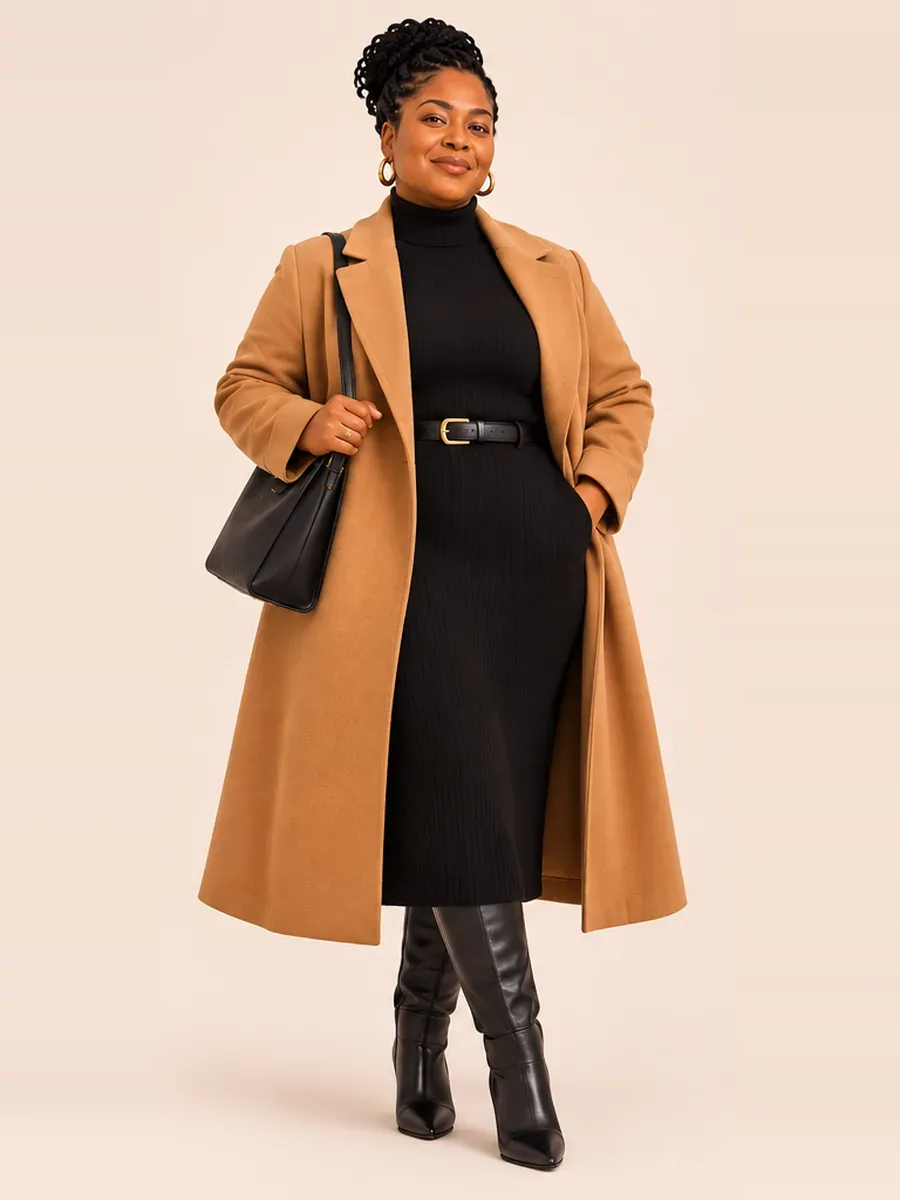
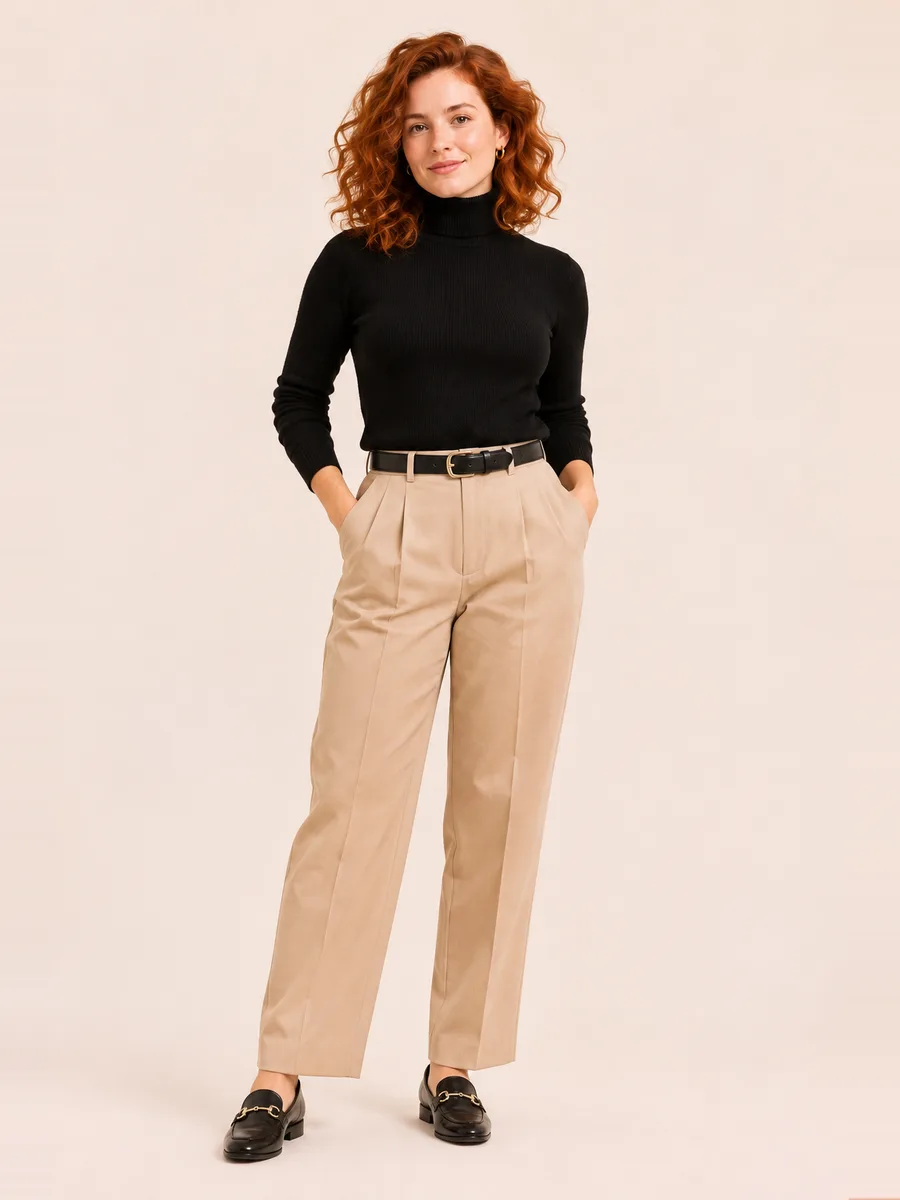
Styles : looks portés Romantique (femme) ; correctif Classique chic 3
Romantique : robe midi fleurie et gilet ivoire, blouse à volants et jupe
satinée rose poudré, pull rose pâle et jupe en dentelle ; la galerie
s'affiche avec ses trois photos. Classique chic 3 remplacé par la photo
du prompt de correctifs. Les cinq correctifs femme sont faits.

Claude-Session: https://claude.ai/code/session_012QL3YtmR4vGBEaKjEs57SS

diff --git a/src/lib/profile.ts b/src/lib/profile.ts
@@ -330,7 +330,7 @@ export const VISUELS_ETAPE_STYLE_FEMME: Record<StyleId, string> = {
 /**
  * LES LOOKS PORTÉS D'UN STYLE (14/11/2026, brief « Refonte UX/UI – Onboarding Choix des styles ») : trois photos éditoriales de tenues
  * portées par style, sous le flat lay de la carte (DecouverteStyles). Fournies au fil de l'eau (14/11/2026 : Minimaliste, Casual chic,
- * Classique chic, Bohème, Streetwear, Preppy et Créatif femme ; 15/11/2026 : Minimaliste, Casual chic, Classique chic, Bohème, Streetwear, Preppy et Créatif homme) ; pour les autres, la règle « aucune donnée inventée » veut
+ * Classique chic, Bohème, Streetwear, Preppy et Créatif femme, Romantique le 15/11/2026 ; 15/11/2026 : Minimaliste, Casual chic, Classique chic, Bohème, Streetwear, Preppy et Créatif homme) ; pour les autres, la règle « aucune donnée inventée » veut
  * qu'une galerie sans photo ne s'affiche pas — pas d'icône, pas de placeholder, pas de flat lay recomposé à leur place. Chaque photo
  * fournie se déclare ici, par genre et par style, à l'emplacement prévu : public/images/styles/looks/<genre>/<slug>-<1|2|3>.webp,
  * portrait 3:4 (900 × 1200, WebP), comme les flat lays. Une liste partielle affiche ce qu'elle a.
@@ -342,12 +342,13 @@ export const LOOKS_PORTES_STYLE: Record<"femme" | "homme", Partial<Record<StyleI
     minimaliste: ["/images/styles/looks/femme/minimaliste-1.webp", "/images/styles/looks/femme/minimaliste-2.webp", "/images/styles/looks/femme/minimaliste-3.webp"],
     casual_chic: ["/images/styles/looks/femme/casual-chic-1.webp", "/images/styles/looks/femme/casual-chic-2.webp", "/images/styles/looks/femme/casual-chic-3.webp"],
     // Fournis au format 3:4 (14/11/2026) : le 1 ramené à 900 × 1200 ; les 2 et 3 avaient des bandes claires ajoutées sur les côtés,
-    // retirées (recadrage sur la photo) puis recomplétées par le bord de la photo. Le 2 remplacé le 15/11/2026 (correctif, fourni en 2:3).
+    // retirées (recadrage sur la photo) puis recomplétées par le bord de la photo. Les 2 et 3 remplacés le 15/11/2026 (correctifs, fournis en 2:3).
     classique_chic: ["/images/styles/looks/femme/classique-chic-1.webp", "/images/styles/looks/femme/classique-chic-2.webp", "/images/styles/looks/femme/classique-chic-3.webp"],
     boheme: ["/images/styles/looks/femme/boheme-1.webp", "/images/styles/looks/femme/boheme-2.webp", "/images/styles/looks/femme/boheme-3.webp"],
     streetwear: ["/images/styles/looks/femme/streetwear-1.webp", "/images/styles/looks/femme/streetwear-2.webp", "/images/styles/looks/femme/streetwear-3.webp"],
     preppy: ["/images/styles/looks/femme/preppy-1.webp", "/images/styles/looks/femme/preppy-2.webp", "/images/styles/looks/femme/preppy-3.webp"],
     creatif: ["/images/styles/looks/femme/creatif-1.webp", "/images/styles/looks/femme/creatif-2.webp", "/images/styles/looks/femme/creatif-3.webp"],
+    romantique: ["/images/styles/looks/femme/romantique-1.webp", "/images/styles/looks/femme/romantique-2.webp", "/images/styles/looks/femme/romantique-3.webp"],
   },
   homme: {
     // Fournis le 15/11/2026, rangés dans l'ordre du prompt (docs/prompts-visuels-styles.md) : 1 pull noir et pantalon anthracite,

diff --git a/src/components/DecouverteStyles.tsx b/src/components/DecouverteStyles.tsx
@@ -16,7 +16,7 @@ import { MAX_STYLES, exposedStyleIds, looksPortesStyle, retirerStyle, styleConfi
  *
  * Données inchangées : les ids de StyleId, persistés sur `profiles.styles` par l'écran du questionnaire (le brouillon, puis la fin du
  * parcours) ; les libellés, descriptions et visuels de STYLE_CONFIG ; les styles proposés par genre (exposedStyleIds). Le moteur n'est pas
- * touché. Les looks portés (LOOKS_PORTES_STYLE) ne s'affichent que s'ils existent : Minimaliste, Casual chic, Classique chic, Bohème, Streetwear, Preppy et Créatif côté femme, Minimaliste, Casual chic, Classique chic, Bohème, Streetwear, Preppy et Créatif côté homme au 15/11/2026.
+ * touché. Les looks portés (LOOKS_PORTES_STYLE) ne s'affichent que s'ils existent : Minimaliste, Casual chic, Classique chic, Bohème, Streetwear, Preppy, Créatif et Romantique côté femme, Minimaliste, Casual chic, Classique chic, Bohème, Streetwear, Preppy et Créatif côté homme au 15/11/2026.
  */
 /** Hauteur de l'étape Style hors de la rangée flat lay + looks (px, mesurée à 390 × 844) : tout tient sans défiler. */
 const HAUTEUR_HORS_RANGEE = 573;
